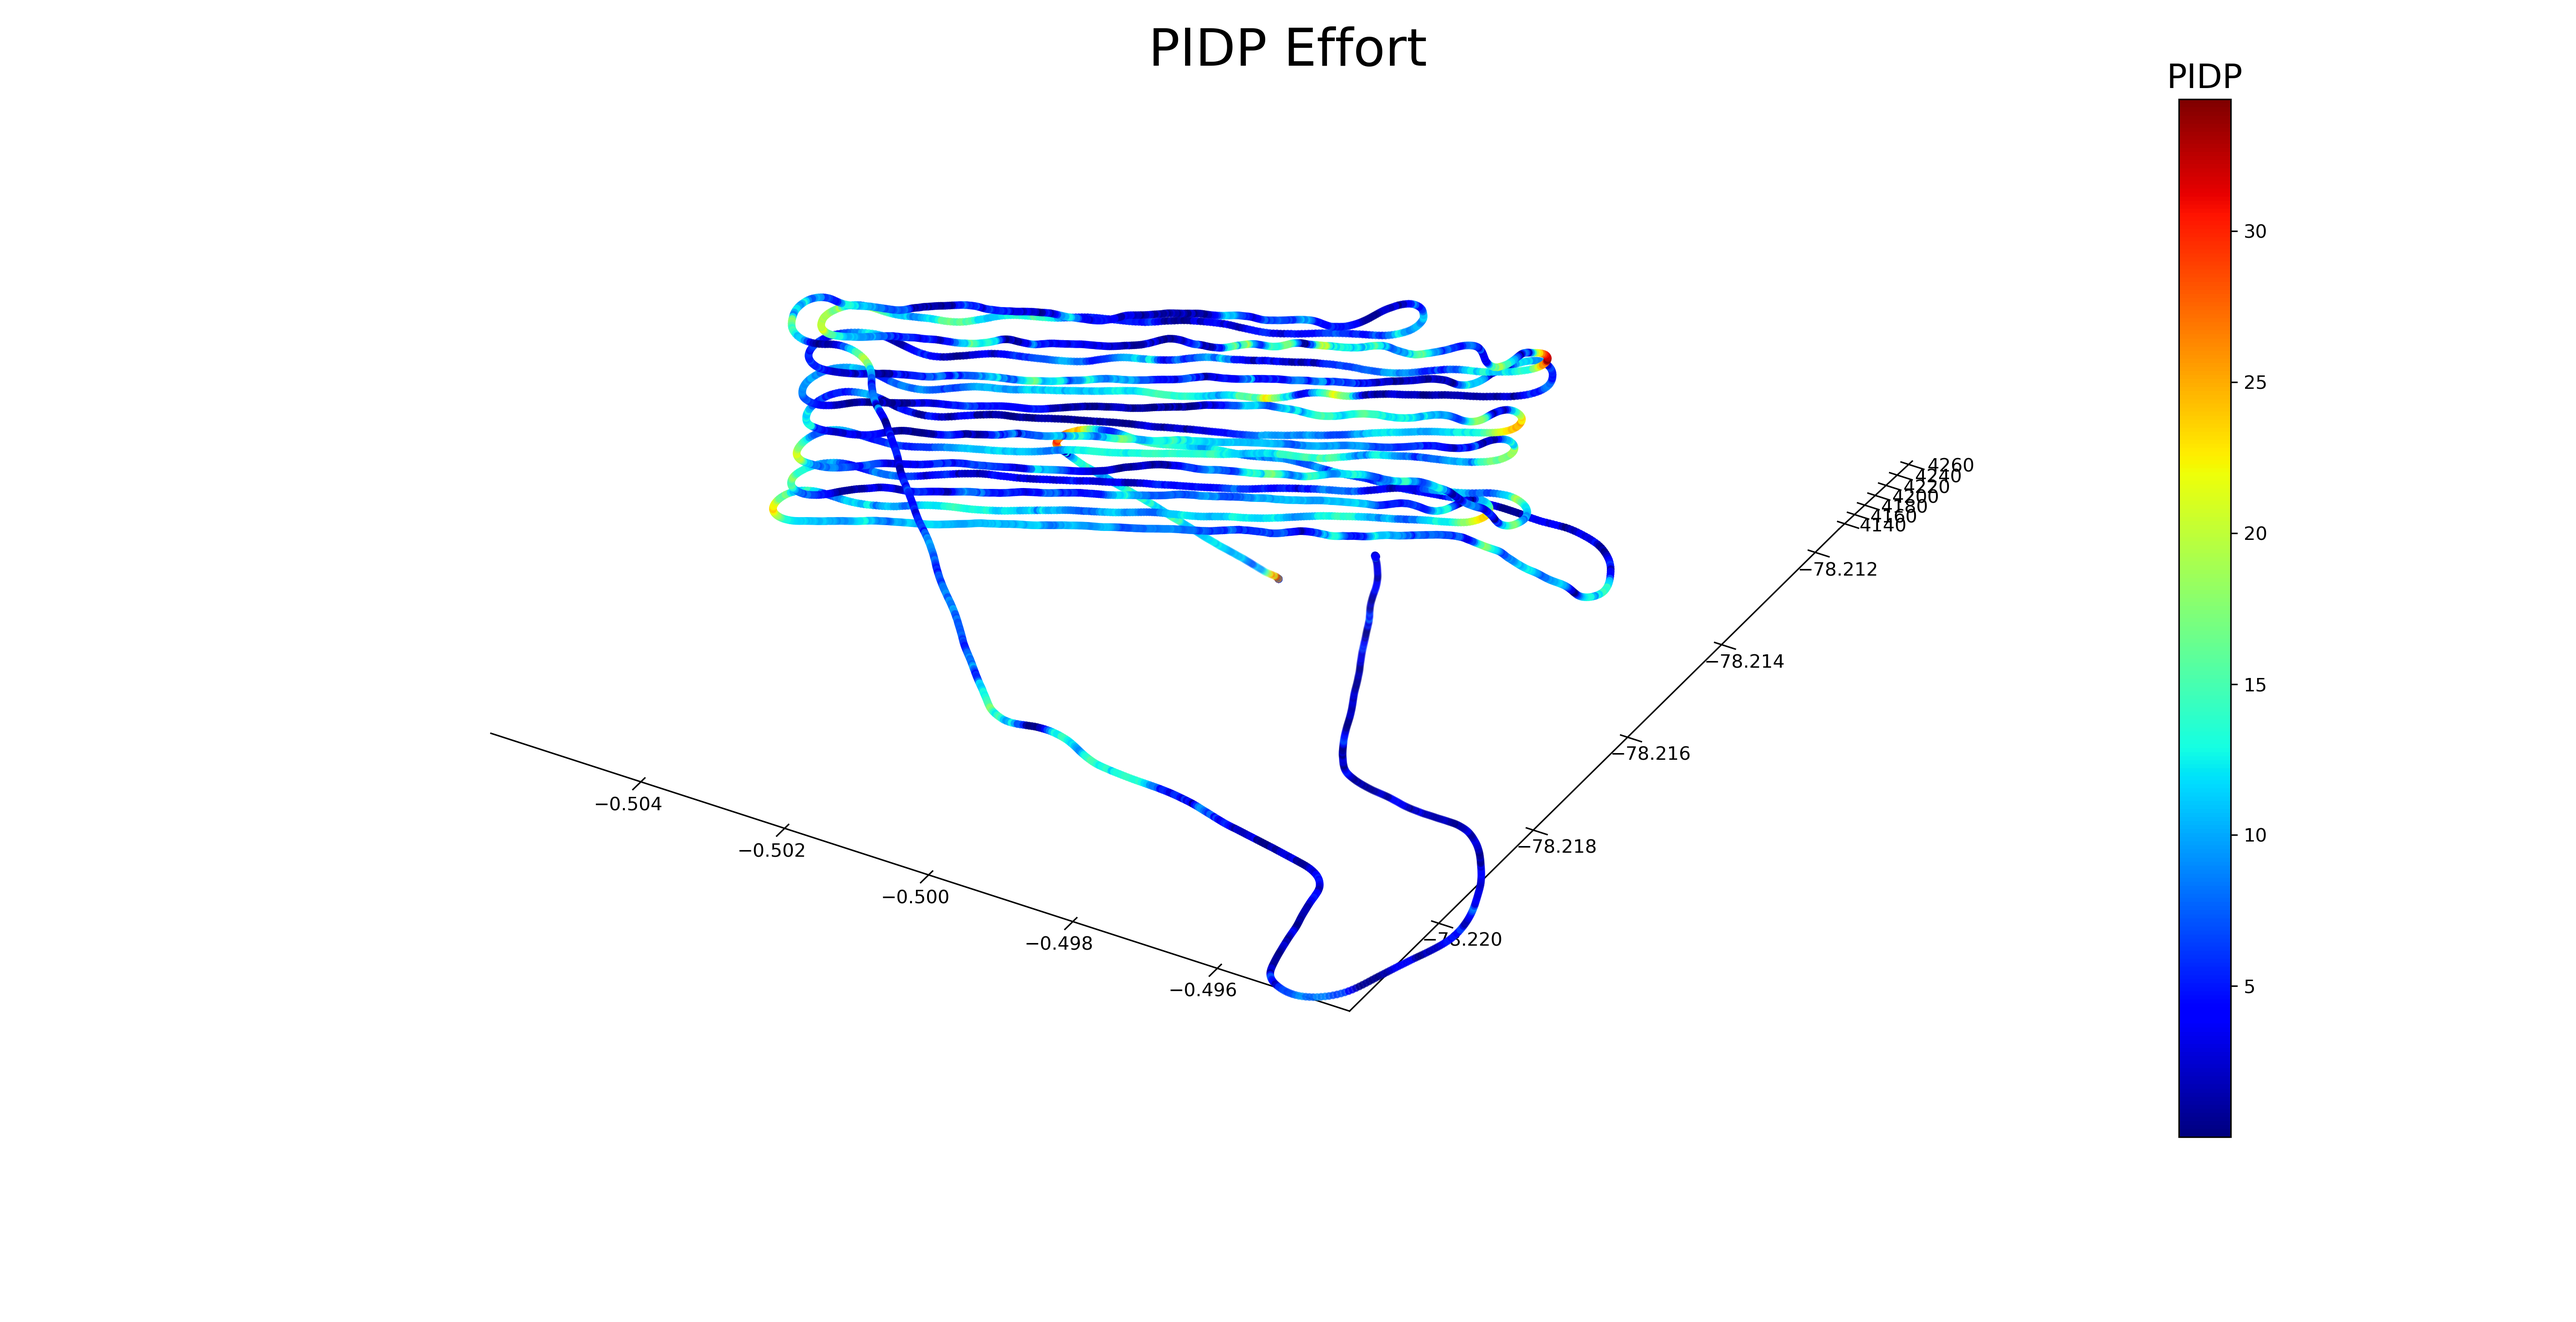
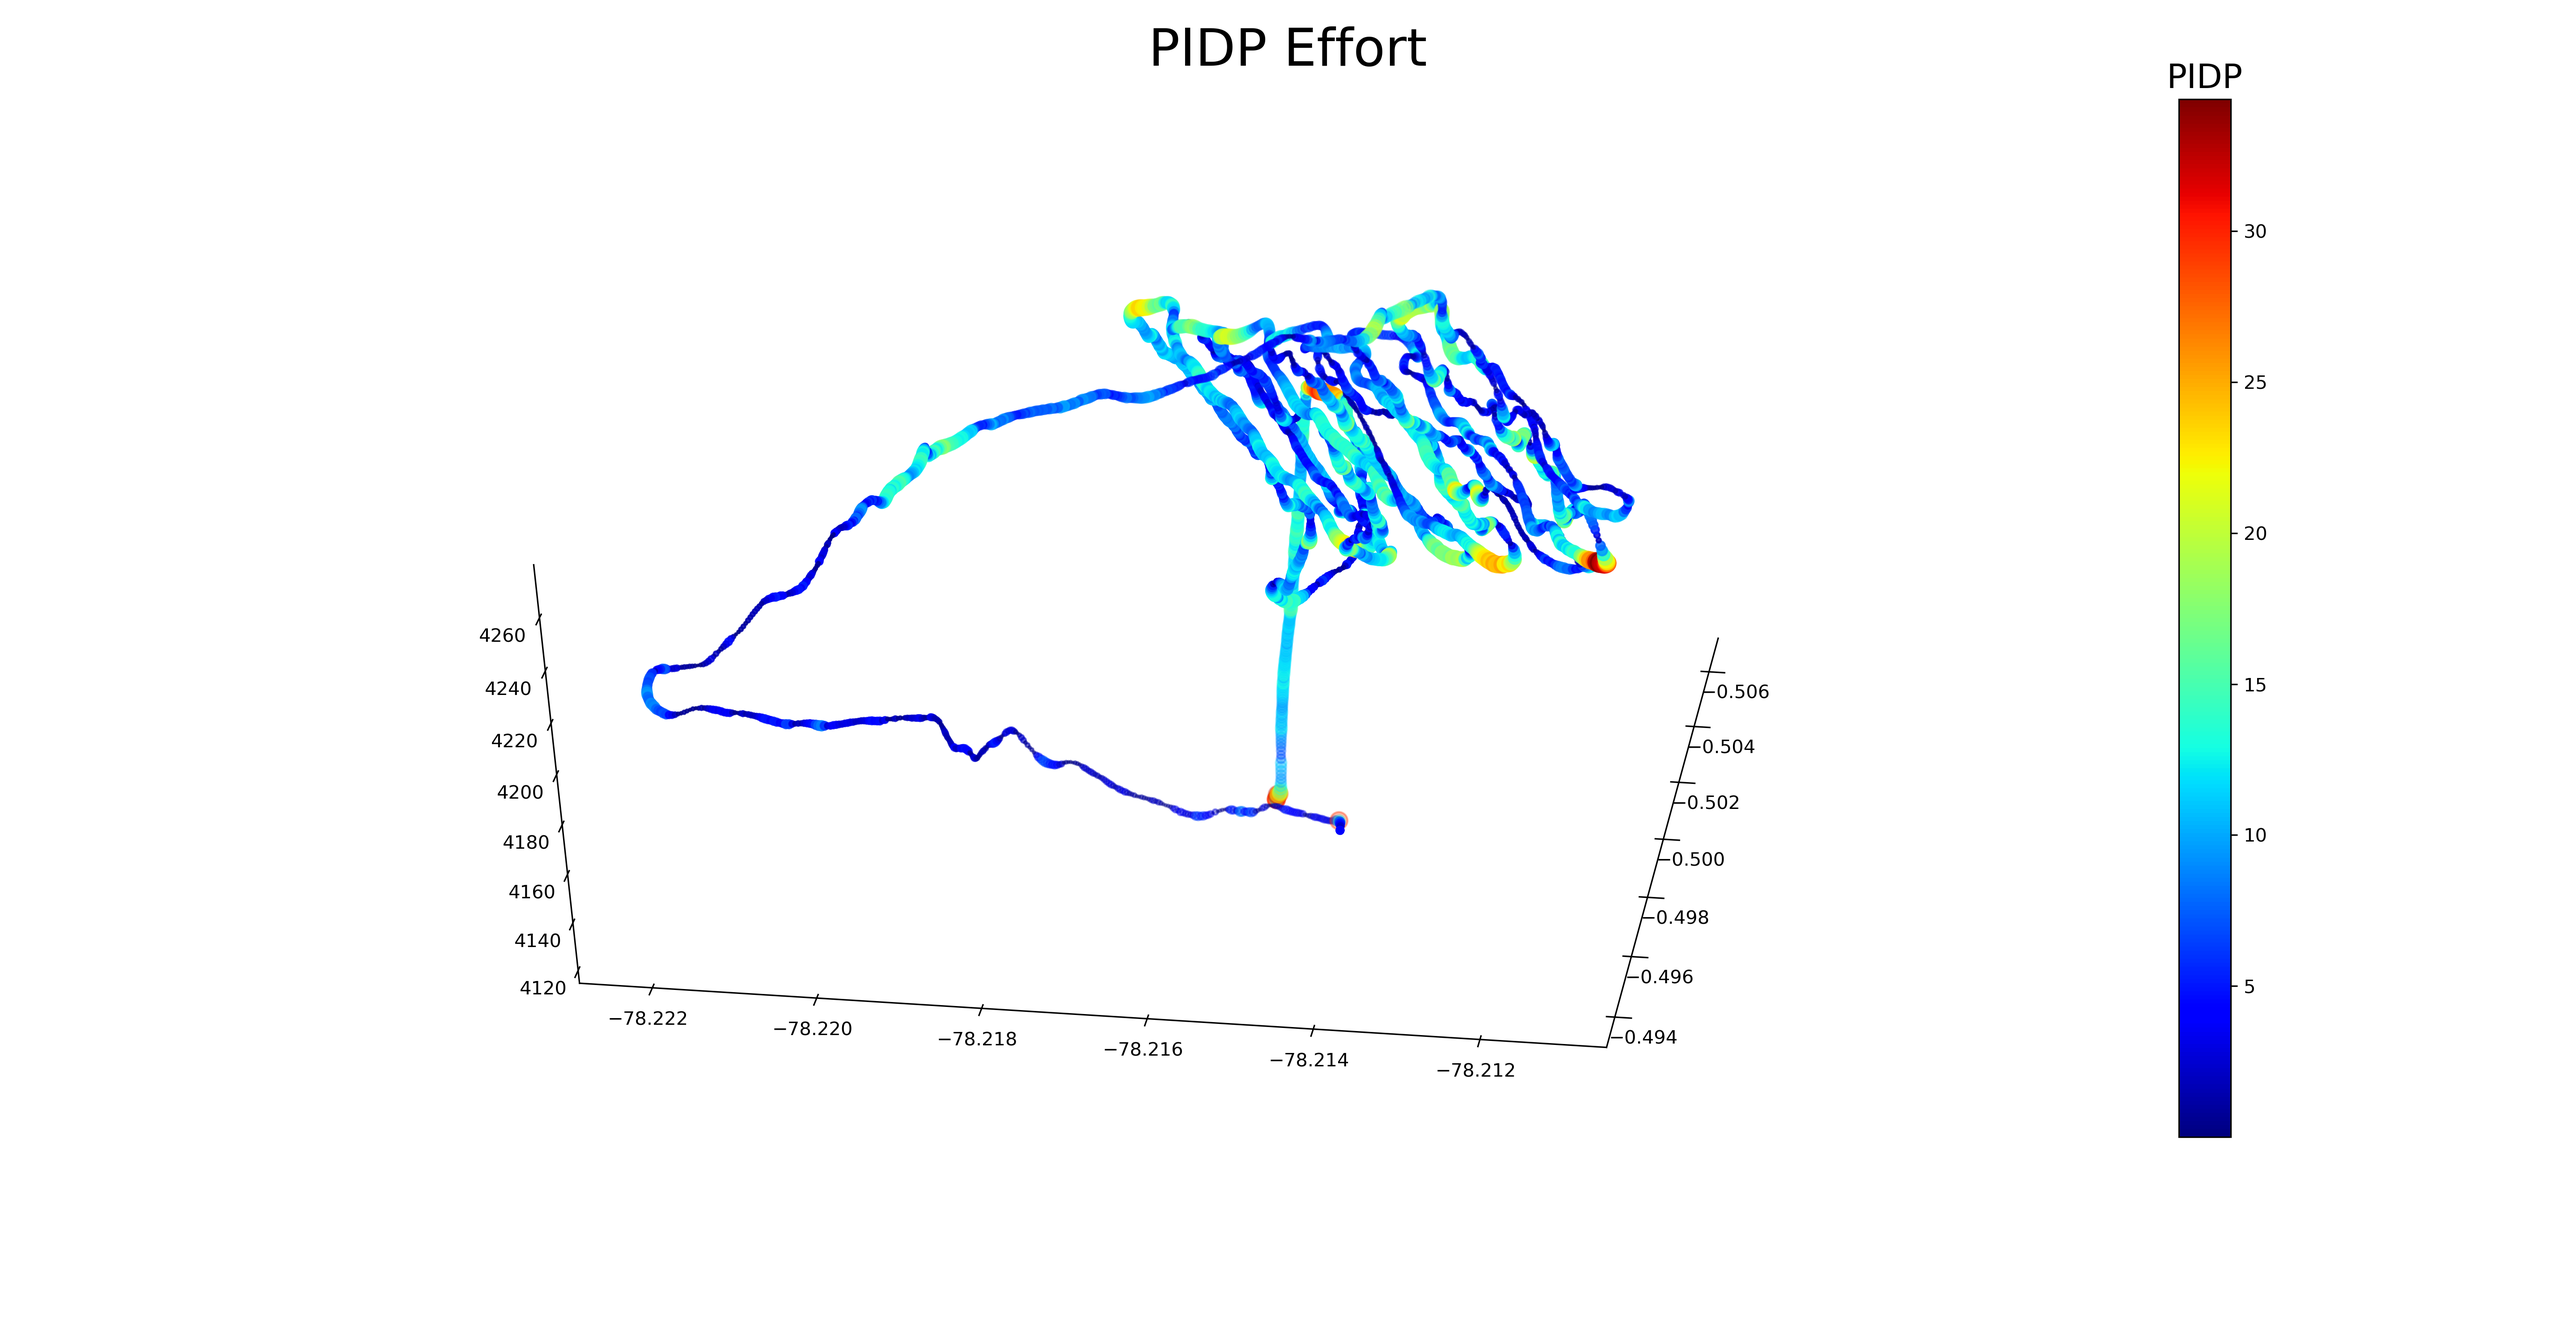
Power graph integrated

diff --git a/tools.py b/tools.py
@@ -26,7 +26,7 @@ def save_fig(folder_name, file_name, fig):
 	f_path = os.path.join(f_path, folder_name)
 	fig.savefig(os.path.join(f_path, file_name), dpi=300)	
 
-
+# Plot data acording to GPS position
 def plot_3d_points(variables, description, names):
 
 	gps, var = variables
@@ -45,9 +45,18 @@ def plot_3d_points(variables, description, names):
 	ax.zaxis.pane.set_edgecolor('white')
 	ax.grid(False)
 
+	# Configure viewing angle in the plot
+	ax.view_init(36, 30)
+	# ax.view_init(24, 15)
+
 	# Plot GPS points and assign a color depending 
 	# on the value of the error
-	cs = ax.scatter(lat, lng, alt , s = 10, c = var, cmap = 'jet')
+	size = 10
+	if np.amax(var) > 0:
+		size = 100 * var / np.amax(var) + 1
+
+	cs = ax.scatter(lat, lng, alt , s = size, c = var, cmap = 'jet')
+	# cs = ax.scatter(lat, lng, alt , s = 10, c = var, cmap = 'jet')
 	cbar = plt.colorbar(cs)
 	fig.suptitle(title, fontsize = 28)
 	if label: cbar.ax.set_title(label, fontsize = 18)
@@ -392,9 +401,48 @@ class LogFileData:
 		names = (folder_name, file_name)
 		plot_3d_points(variables, description, names)
 
+	def plot_power_in_3d(self, log_num = '', folder_name = '', view = ''):
+		
+		# If log_num empty, fuction return None Value
+		if not log_num: return
 
-	def plot_waypoints(self, log_num = '', lines = False, folder_name = '', 
-						real_gps = False):
+		# Get gps data from function
+		gps = self.get_gps_data()
+
+		# Determine range on time within the UAV executes 
+		# auto mode
+		t = np.array(self.data['BAT']['TimeUS'])
+		idx_i, idx_f = self.select_auto_data(t)
+
+		# Get voltage and current data
+		volt = np.array(self.data['BAT']['Volt'])[idx_i:idx_f]
+		curr = np.array(self.data['BAT']['Curr'])[idx_i:idx_f]
+
+		# Calculate power
+		power = volt * curr
+
+		# Resize error to match the length of the GPS position data
+		length = len(gps[0])
+		resized_var = np.resize(power, (length, round(power.shape[0]/length)))
+		resized_var = np.mean(resized_var, axis=1)
+		resized_var = np.abs(resized_var)
+
+		# Generate title, label and file name
+		title = 'Power: ' + log_num + '.log'
+		label = 'POWER (W)'
+		file_name = 'power_'+ log_num + '.png'
+
+
+		# Pack all variables to call plot_3d_points fuction in order to 
+		# plot with this data
+		variables = (gps, resized_var)
+		description = (title, label)
+		names = (folder_name, file_name)
+		plot_3d_points(variables, description, names)
+
+
+
+	def plot_waypoints(self, log_num = '', folder_name = '', real_gps = False):
 
 		# If log_num emty, fuction return a None value
 		if not log_num: return
@@ -426,6 +474,7 @@ class LogFileData:
 		ax.plot(lat, lng, alt, linewidth = 0.75)
 
 		# Get gps data and plot if real_gps = True
+		# This will plot the real trajectory described by the uav
 		if real_gps:
 			lat, lng, alt = self.get_gps_data()
 			ax.plot(lat, lng, alt, marker='>', markevery=30)

diff --git a/modify_missions.py b/modify_missions.py
@@ -1,33 +1,49 @@
 import numpy as np
 import sys
 import os
-
+from tkinter import *
+from tkinter import filedialog
+from tkinter import messagebox
+# Path of the this file
 f_path = os.path.dirname(os.path.realpath(__file__))
+f_path = f_path[0:f_path.rfind('\\')] + '\\comparison\\' 
+
+# Directories to be used in order to read and save
+# modified missions
 wps_path = os.path.join(f_path, 'wps\\')
 sim_path = os.path.join(f_path, 'wps_simulations\\')
 
-def modify_waypoints(fname='default.txt'):
+def modify_waypoints():
+	global window
+	path_file = filedialog.askopenfilename(filetypes = [("txt", ".txt")])
+	file_name = path_file.split('/')[-1]
+
 	try:
-		fh = open(wps_path+fname)
+		fh = open(path_file)
 	except:
 		print('Error, file cannot be opened')
-		quit()
+
+	# Read each way point from the mission file
 	wps = []
 	for line in fh:
 		wps.append(line.split('\t'))
 	lat = np.array([float(wps[i][8]) for i in range(1,len(wps))])
 	lng = np.array([float(wps[i][9]) for i in range(1,len(wps))])
-	lat_o, lng_o = -0.1098542, -78.3551329
+	
+	# New latitude and longitude for simulation
+	lat_o, lng_o = -0.1058602, -78.3551253
+
+	# Move mission to simulation position
 	lat_d = lat_o - lat[0]
 	lng_d = lng_o - lng[0]
 	for i in range(lat.shape[0]):
 		if lat[i] == 0.0: continue
 		lat[i] = lat[i] + lat_d
-	
 	for i in range(lng.shape[0]):
 		if lng[i] == 0.0: continue
 		lng[i] = lng[i] + lng_d
-	fh = open(sim_path+fname, 'w')
+
+	fh = open(sim_path + file_name, 'w')
 	fh.write(str(wps[0][0]))
 	for i in range(1, len(wps)):
 		[fh.write(j + '\t') for j in wps[i][:8]]
@@ -36,11 +52,16 @@ def modify_waypoints(fname='default.txt'):
 		fh.write(str(wps[i][-2])+'\t')
 		fh.write(str(wps[i][-1]))
 	fh.close()
+	messagebox.showinfo("Conversion", "Done!")
+
 
 def main():
-	for entry in os.listdir(wps_path): 
-		if os.path.isfile(os.path.join(wps_path, entry)):
-			modify_waypoints(entry) 
+	global window
+	window = Tk()
+	window.title('Select File')
+	btn = Button(window, text = 'Open Mission', width = 25, command = modify_waypoints)
+	btn.grid(column = 0, row = 0, padx = 0, pady = 5)
+	window.mainloop()
 
 if __name__ == '__main__':
 	main()

diff --git a/graphs.py b/graphs.py
@@ -21,8 +21,9 @@ def process_log():
 	log_num = path_file.split('/')[-1].split('.')[0]
 	data_log = LogFileData(path_file)
 	window.withdraw()
-	data_log.plot_waypoints(log_num = log_num, folder_name = log_num)
-	# plot_pids_in_3d()
+	# data_log.plot_power_in_3d(log_num = log_num, folder_name = log_num)
+	# data_log.plot_waypoints(log_num = log_num, folder_name = log_num)
+	plot_pids_in_3d()
 	# plot_3d_errors()
 	# plot_errors()
 	# plot_subfields()
